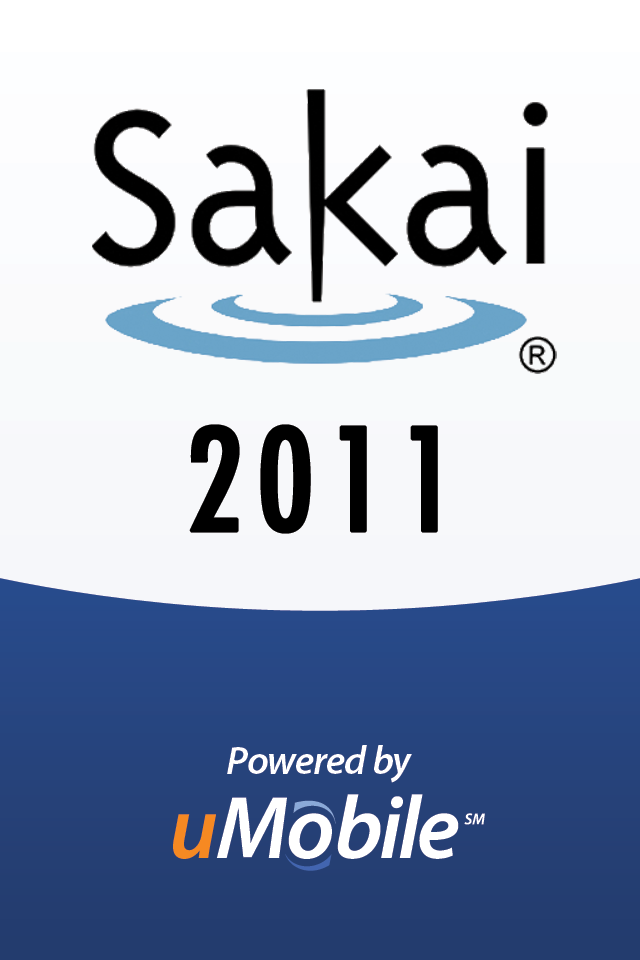
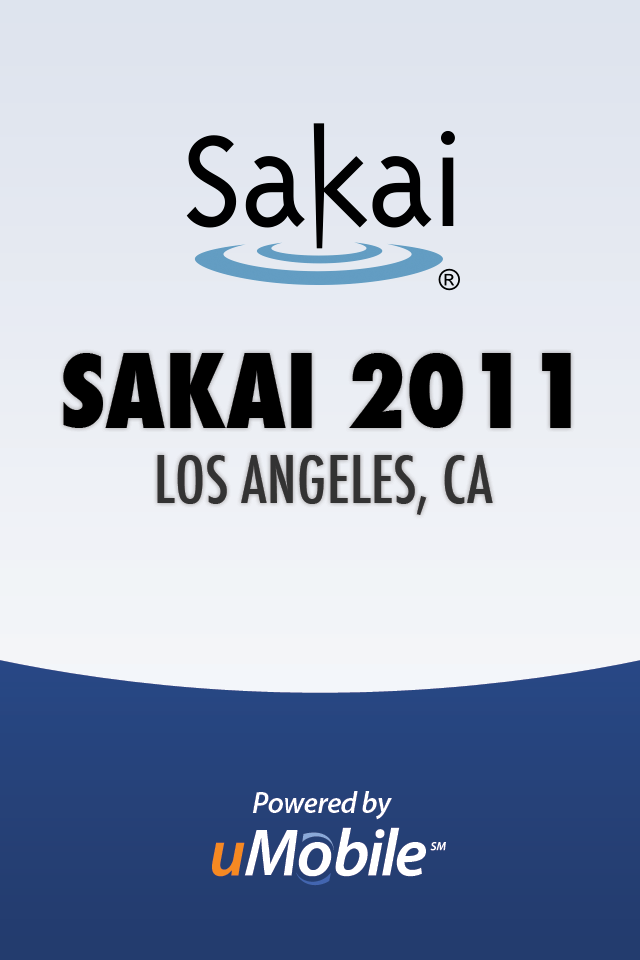
UMOBILE-87 updated information for Sakai conference, and removed user-agent override from login process.

diff --git a/Resources/js/controllers/MapDetailViewController.js b/Resources/js/controllers/MapDetailViewController.js
@@ -9,9 +9,7 @@ var MapDetailViewController = function (facade,opts) {
         locationPhotoOptions = {},
         locationPhoto,
         titleBackButton,
-        topDetailView,
-        onBackButtonPress,
-        onBackButtonUp;
+        topDetailView;
         
     init = function () {        
         //Create a back button to be added to the title bar to take the user back to the map
@@ -27,9 +25,6 @@ var MapDetailViewController = function (facade,opts) {
         titleBackButtonOptions = Styles.secondaryBarButton;
         titleBackButtonOptions.title = LocalDictionary.back;
         titleBackButton = Titanium.UI.createButton(titleBackButtonOptions);
-        
-        titleBackButton.addEventListener('touchstart', onBackButtonPress);
-        titleBackButton.addEventListener('touchend', onBackButtonUp);
         
         Ti.API.debug("adding event listener to titleBackButton in MapDetailViewController");
         titleBackButton.addEventListener("click",function(e){
@@ -94,24 +89,6 @@ var MapDetailViewController = function (facade,opts) {
         showImage();
         
         self.show();
-    };
-    
-    onBackButtonPress = function (e) {
-        if (Device.isIOS()) {
-            titleBackButton.backgroundGradient = Styles.secondaryBarButton.backgroundGradientPress;
-        }
-        else {
-            titleBackButton.backgroundImage = Styles.secondaryBarButton.backgroundImagePress;
-        }
-    };
-    
-    onBackButtonUp = function (e) {
-        if (Device.isIOS()) {
-            titleBackButton.backgroundGradient = Styles.secondaryBarButton.backgroundGradient;
-        }
-        else {
-            titleBackButton.backgroundImage = Styles.secondaryBarButton.backgroundImage;
-        }
     };
     
     init();

diff --git a/Resources/js/controllers/PortletWindowController.js b/Resources/js/controllers/PortletWindowController.js
@@ -24,7 +24,7 @@ var PortletWindowController = function (facade) {
         initialized, winListeners = [], activePortlet,
         pathToRoot = '../../',
         init, drawWindow, getQualifiedURL, getLocalUrl,
-        onBackBtnPress, onBackButtonUp, includePortlet, onPortletLoad, onPortletBeforeLoad, onWindowOpen, onAppResume;
+        includePortlet, onPortletLoad, onPortletBeforeLoad, onWindowOpen, onAppResume;
 
     init = function () {
         Ti.API.debug("init() in PortletWindowController");
@@ -92,8 +92,6 @@ var PortletWindowController = function (facade) {
         navBarOptions.title = LocalDictionary.back;
 
         navBackButton = Titanium.UI.createButton(navBarOptions);
-        navBackButton.addEventListener('touchstart', onBackBtnPress);
-        navBackButton.addEventListener('touchend', onBackBtnUp);
         navBackButton.addEventListener('click', function () { webView.goBack(); });
         
         // initialize navigation bar for URLs outside the portal
@@ -237,16 +235,6 @@ var PortletWindowController = function (facade) {
         }
         webView.show();
         activityIndicator.hide();
-    };
-    
-    onBackBtnPress = function (e) {
-        Ti.API.debug("onBackBtnPress() in PortletWindowController");
-        navBackButton.backgroundGradient = Styles.secondaryBarButton.backgroundGradientPress;
-    };
-    
-    onBackBtnUp = function (e) {
-        Ti.API.debug("onBackBtnUp() in PortletWindowController");
-        navBackButton.backgroundGradient = Styles.secondaryBarButton.backgroundGradient;
     };
     
     if (!initialized) {

diff --git a/Resources/js/style.js b/Resources/js/style.js
@@ -141,16 +141,14 @@ var Styles = function (facade) {
             left: 10,
             width: 50,
             height: 30,
-        	backgroundImage: 'none',
+        	backgroundImage: 'img/secondarybarbtnbg.png',
+        	backgroundSelectedImage: 'img/secondarybarbtnbg_press.png',
         	color: '#333',
-            borderWidth: 1,
-            borderRadius: 5,
-            borderColor: '#CCC',
+        	selectedColor: "#666",
+            borderRadius: 10,
         	font: {
         	    fontSize: 14
-        	},
-        	backgroundGradient: defaults.SECONDARY_BAR_BTN_BACKGROUND_GRADIENT,
-        	backgroundGradientPress: defaults.SECONDARY_BAR_BTN_DOWN_BG
+        	}
         },
         //Styles for TitleBar
         titleBar: {
@@ -497,8 +495,6 @@ var Styles = function (facade) {
         stylesheet.searchBar.backgroundImage = '/img/secondarybarbg.png';
         stylesheet.secondaryNavBar.backgroundImage = '/img/secondarybarbg.png';
         stylesheet.homeGuestNote.backgroundImage = '/img/secondarybarbg.png';
-        stylesheet.secondaryBarButton.backgroundImage = '/img/secondarybarbtnbg.png';
-        stylesheet.secondaryBarButton.backgroundImagePress = '/img/secondarybarbtnbg_press.png';
         stylesheet.mapAnnotation.image = '/img/mapPin.png';
     }
     

diff --git a/Resources/js/models/LoginProxy.js b/Resources/js/models/LoginProxy.js
@@ -84,10 +84,6 @@ var LoginProxy = function (facade) {
             checkSessionUrl = Config.BASE_PORTAL_URL + Config.PORTAL_CONTEXT + '/api/session.json';
             checkSessionClient = Titanium.Network.createHTTPClient();
             checkSessionClient.open('GET', checkSessionUrl, false);
-            /*
-                TODO Remove this line when the guest session is returned properly (temporary hack)
-            */
-            checkSessionClient.setRequestHeader('User-Agent','Mozilla/5.0 (Linux; U; Android 2.1; en-us; Nexus One Build/ERD62) AppleWebKit/530.17 (KHTML, like Gecko) Version/4.0 Mobile Safari/530.17 –Nexus');
             
             checkSessionClient.send();
 
@@ -154,10 +150,6 @@ var LoginProxy = function (facade) {
                 onerror: onAuthError
             });
             authenticator.open('GET', url, true);
-            /*
-                TODO Remove this line when the guest session is returned properly (temporary hack)
-            */
-            authenticator.setRequestHeader('User-Agent','Mozilla/5.0 (Linux; U; Android 2.1; en-us; Nexus One Build/ERD62) AppleWebKit/530.17 (KHTML, like Gecko) Version/4.0 Mobile Safari/530.17 –Nexus');
             authenticator.send();
         }
     };

diff --git a/Resources/js/controllers/DirectoryDetailController.js b/Resources/js/controllers/DirectoryDetailController.js
@@ -7,7 +7,7 @@ var DirectoryDetailController = function (facade) {
         //Methods
         updateValues,
         //Controller Event Handlers
-        onWinOpen, onWinShow, onWinHide, onWinClose, onBackButtonPress, onBackButtonUp;
+        onWinOpen, onWinShow, onWinHide, onWinClose;
     
     init = function () {
         Ti.API.debug('DirectoryDetailController constructed');
@@ -30,9 +30,6 @@ var DirectoryDetailController = function (facade) {
             Ti.API.debug("self.hide() in DirectoryDetailController");
                 self.hide();
         });
-        
-        backButton.addEventListener('touchstart', onBackButtonPress);
-        backButton.addEventListener('touchend', onBackButtonUp);
         
         backBarOpts = Styles.secondaryBar;
         backBarOpts.top = 0;
@@ -102,14 +99,6 @@ var DirectoryDetailController = function (facade) {
             }
         }
         return null;
-    };
-
-    onBackButtonPress = function (e) {
-        backButton.backgroundGradient = Styles.secondaryBarButton.backgroundGradientPress;
-    };
-    
-    onBackButtonUp = function (e) {
-        backButton.backgroundGradient = Styles.secondaryBarButton.backgroundGradient;
     };
 
     if (!self.initialized) {

diff --git a/Resources/js/models/login/CASLogin.js b/Resources/js/models/login/CASLogin.js
@@ -22,11 +22,6 @@ var CASLogin = function (facade) {
             onerror: onInitialError
         });
         client.open('GET', url, false);
-        
-        /*
-            TODO Remove this line when the guest session is returned properly (temporary hack)
-        */
-        client.setRequestHeader('User-Agent','Mozilla/5.0 (Linux; U; Android 2.1; en-us; Nexus One Build/ERD62) AppleWebKit/530.17 (KHTML, like Gecko) Version/4.0 Mobile Safari/530.17 –Nexus');
 
         client.send();
     };
@@ -84,10 +79,6 @@ var CASLogin = function (facade) {
             onerror: onLoginError
         });
         client.open('POST', url, true);
-        /*
-            TODO Remove this line when the guest session is returned properly (temporary hack)
-        */
-        client.setRequestHeader('User-Agent','Mozilla/5.0 (Linux; U; Android 2.1; en-us; Nexus One Build/ERD62) AppleWebKit/530.17 (KHTML, like Gecko) Version/4.0 Mobile Safari/530.17 –Nexus');
         
         data = { 
             username: credentials.username, 

diff --git a/Resources/js/config.js b/Resources/js/config.js
@@ -111,8 +111,8 @@ var Config = function (app) {
     };
     
     this.DEFAULT_MAP_REGION = {
-        latitude: 39.890822,
-        longitude: -105.064509,
+        latitude: 34.052234,
+        longitude: -118.243685,
         latitudeDelta: 0.005,
         longitudeDelta: 0.005
     };
@@ -129,10 +129,10 @@ var Config = function (app) {
 
     this.directoryEmergencyContacts = [
         { 
-            displayName: ["Jasig Hotel"],
+            displayName: ["Westin Bonaventure Hotel"],
             telephoneNumber: ['(866) 716-8137'],
-            postalAddress: ['10600 Westminster Boulevard$Westminster, CO 80020'],
-            url: ['http://www.westindenverboulder.com/']
+            postalAddress: ['404 South Figueroa Street$Los Angeles, CA 90071'],
+            url: ['http://www.starwoodhotels.com/westin/search/hotel_detail.html?propertyID=1004']
         }
     ];
     

diff --git a/Resources/js/models/login/LocalLogin.js b/Resources/js/models/login/LocalLogin.js
@@ -26,10 +26,6 @@ var LocalLogin = function (facade) {
         });
         
         client.open('GET', url, true);
-        /*
-            TODO Remove this line when the guest session is returned properly (temporary hack)
-        */
-        client.setRequestHeader('User-Agent','Mozilla/5.0 (Linux; U; Android 2.1; en-us; Nexus One Build/ERD62) AppleWebKit/530.17 (KHTML, like Gecko) Version/4.0 Mobile Safari/530.17 –Nexus');
 
         client.send();
     };
